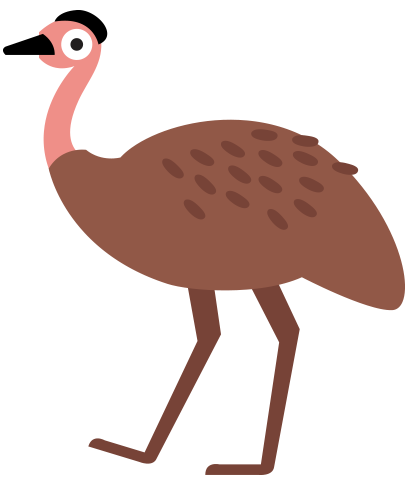
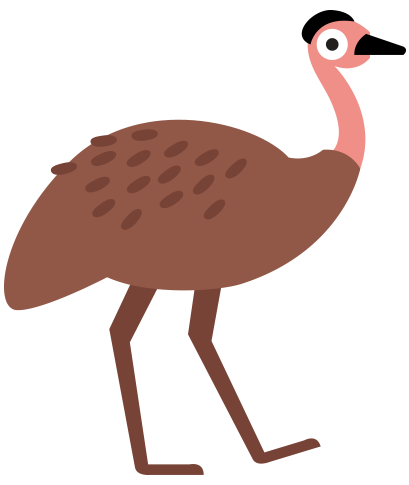
I added a flipped Emu image and made a Frenzy text, I also fixed the middle bound
I just need to fix the speed change at the beginning of the game.

Changed region(s): [[0.0, 0.0, 0.9976, 0.9897], [0.6455, 0.433, 0.7042, 0.4948], [0.2934, 0.433, 0.3521, 0.4948]]

diff --git a/src/GamePanel.java b/src/GamePanel.java
@@ -8,6 +8,7 @@ import java.awt.event.KeyListener;
 import java.awt.image.BufferedImage;
 import java.io.IOException;
 import java.util.ArrayList;
+import java.util.Random;
 
 import javax.imageio.ImageIO;
 import javax.swing.JLabel;
@@ -23,20 +24,23 @@ public class GamePanel extends JPanel implements KeyListener, ActionListener {
 	static int currentSTATE = MENU_STATE;
 	Font titleFont = new Font("LucidaSansTypewriter", Font.BOLD, 48);
 	Font description = new Font("Dialog", Font.PLAIN, 30);
-	public static BufferedImage Emu;
+	Font frenzy = new Font("Dialog", Font.BOLD, 60);
+	public static BufferedImage EmuLeft;
+	public static BufferedImage EmuRight;
 	public static BufferedImage Crosshair;
 	public static BufferedImage explosion;
 	public static BufferedImage cloud;
 	public static BufferedImage Bush;
-	Timer SplatTimer=new Timer(125,om);
-
+	Timer SplatTimer = new Timer(125, om);
+   Random rc = new Random();
 	public GamePanel() {
 		try {
-			Emu = ImageIO.read(this.getClass().getResourceAsStream("Emu-Large.png"));
+			EmuRight = ImageIO.read(this.getClass().getResourceAsStream("Emu-largeCopy.png"));
+			EmuLeft = ImageIO.read(this.getClass().getResourceAsStream("Emu-large.png"));
 			Crosshair = ImageIO.read(this.getClass().getResourceAsStream("Crosshair.png"));
-		  	explosion = ImageIO.read(this.getClass().getResourceAsStream("explosion.png"));
-		  	cloud=ImageIO.read(this.getClass().getResourceAsStream("Cloud.png"));
-		  	Bush=ImageIO.read(this.getClass().getResourceAsStream("Bush.png"));
+			explosion = ImageIO.read(this.getClass().getResourceAsStream("explosion.png"));
+			cloud = ImageIO.read(this.getClass().getResourceAsStream("Cloud.png"));
+			Bush = ImageIO.read(this.getClass().getResourceAsStream("Bush.png"));
 		} catch (IOException e) {
 			e.printStackTrace();
 		}
@@ -87,33 +91,39 @@ public class GamePanel extends JPanel implements KeyListener, ActionListener {
 
 		g.setColor(Color.CYAN);
 		g.fillRect(0, 0, EmuHunt.width, EmuHunt.height);
-		
+
 		g.setColor(new Color(40, 90, 40));
 		g.fillRect(0, 700, 1000, 300);
 		g.setColor(Color.white);
-		//g.fillOval(120, 100, 150, 100);
-		//g.fillOval(900, 50, 150, 100);
-		//g.fillOval(450, 200, 150, 100);
+		// g.fillOval(120, 100, 150, 100);
+		// g.fillOval(900, 50, 150, 100);
+		// g.fillOval(450, 200, 150, 100);
 		g.setColor(new Color(40, 100, 40));
-		//g.fillOval(-10, 600, 120, 130);
-		//g.fillOval(900, 600, 120, 130);
+		// g.fillOval(-10, 600, 120, 130);
+		// g.fillOval(900, 600, 120, 130);
 		g.setColor(Color.RED);
-		
 
-		g.drawString("Score:" + ObjectManager.score + " ", 500, 50);
 		g.setColor(Color.BLACK);
-		g.drawImage(cloud, 115,100,170,120, null);
-		g.drawImage(cloud, 900,50,170,120, null);
-		g.drawImage(cloud, 450,200,170,120, null);
+		g.drawImage(cloud, 115, 100, 170, 120, null);
+		g.drawImage(cloud, 900, 50, 170, 120, null);
+		g.drawImage(cloud, 450, 200, 170, 120, null);
 		g.drawImage(Bush, -30, 600, 220, 200, null);
-		g.drawImage(Bush, 840,600,220,200, null);
-		
+		g.drawImage(Bush, 840, 600, 220, 200, null);
+
 		g.drawImage(Crosshair, Target.targetX - 19, Target.targetY - 19, 40, 40, null);
 		g.drawString("Bullets: " + om.bullets, 900, 50);
 		g.drawOval(Target.targetX - 15, Target.targetY - 14, Target.targetWidth, Target.targetHeight);
 		g.drawRect(Target.targetX - 1, Target.targetY - 1, 3, 3);
 		om.draw(g);
+		g.drawString("Score:" + ObjectManager.score + " ", 500, 50);
+		
+		if (om.score > 35 && om.score < 48) {
+			Color flash = new Color(rc.nextInt(255),rc.nextInt(255),rc.nextInt(255));
+			g.setColor(flash);
+			g.setFont(frenzy);
+			g.drawString("FRENZY", 400, 150);
 
+		}
 	}
 
 	void drawEndState(Graphics g) {
@@ -144,7 +154,7 @@ public class GamePanel extends JPanel implements KeyListener, ActionListener {
 	}
 
 	void updateEndState() {
-		ObjectManager.bullets = 60;
+		ObjectManager.bullets = 40;
 
 	}
 

diff --git a/src/Enemy.java b/src/Enemy.java
@@ -4,21 +4,23 @@ import java.awt.image.BufferedImage;
 import java.util.Random;
 
 public class Enemy extends GameObject {
-	 int speed;
+	int speed;
 	int movementType;
 	int arcMovement = 0;
 	int straightMovement = 1;
 	int wiggleMovement = 2;
-	static int rand = new Random().nextInt(2) +2;
-	
-public BufferedImage Emu=GamePanel.Emu;
-public BufferedImage Crosshair=GamePanel.Crosshair;
-public BufferedImage explosion = GamePanel.explosion;
+	static int rand = new Random().nextInt(2) + 2;
+
+	public BufferedImage EmuLeft = GamePanel.EmuLeft;
+	public BufferedImage EmuRight = GamePanel.EmuRight;
+	public BufferedImage Crosshair = GamePanel.Crosshair;
+	public BufferedImage explosion = GamePanel.explosion;
+
 	public Enemy(int x, int y, int width, int height, int movementType) {
 		super(x, y, width, height);
 		this.movementType = movementType;
 		speed = rand;
-		//speed=1;
+		// speed=1;
 		this.y = new Random().nextInt(650);
 		this.x = new Random().nextInt(2) * 1000;
 		if (this.x > 500) {
@@ -28,13 +30,18 @@ public BufferedImage explosion = GamePanel.explosion;
 	}
 
 	public void draw(Graphics g) {
-		 g.setColor(Color.black);
-		 //g.drawRect(collisionBox.x, collisionBox.y, collisionBox.width, collisionBox.height);
-		
-		g.drawImage(Emu, x, y,width,height, null);
-		
-		//System.out.println("enemy drawn");
+		g.setColor(Color.black);
+		// g.drawRect(collisionBox.x, collisionBox.y, collisionBox.width,
+		// collisionBox.height);
+		if (speed>0) {
+			g.drawImage(EmuLeft, x, y, width, height, null);
+		}
+		else {
+			g.drawImage(EmuRight, x, y, width, height, null);
+		}
+		// System.out.println("enemy drawn");
 	}
+
 	public void update() {
 		super.update();
 		if (x > 490 && x < 500) {
@@ -42,7 +49,7 @@ public BufferedImage explosion = GamePanel.explosion;
 			y += 6;
 		}
 		x += speed;
-	//	System.out.println("1234");
+		// System.out.println("1234");
 	}
 
 	int getX() {

diff --git a/src/GameObject.java b/src/GameObject.java
@@ -24,33 +24,35 @@ public class GameObject {
 		frameCount++;
 		collisionBox.setBounds(x, y, width, height);
 		if (ObjectManager.score >= 12 && ObjectManager.score < 18) {
-			Enemy.rand = new Random().nextInt(3) + 4;
+			Enemy.rand = new Random().nextInt(3) + 2;
 			ObjectManager.enemySpawnTime = 2300;
 			
-		//	ObjectManager.score = 49;
+		//	ObjectManager.score = 36;
 		}
 		if (ObjectManager.score >= 18 && ObjectManager.score < 30) {
-			Enemy.rand = new Random().nextInt(6) + 3;
+			Enemy.rand = new Random().nextInt(3) + 3;
 			ObjectManager.enemySpawnTime = 2000;
 		}
 		if (ObjectManager.score >= 30 && ObjectManager.score < 35) {
-			Enemy.rand = new Random().nextInt(7) + 4;
+			Enemy.rand = new Random().nextInt(4) + 4;
 			ObjectManager.enemySpawnTime = 1000;
 		}
 		if (ObjectManager.score >= 35 && ObjectManager.score < 48) {
-			Enemy.rand = new Random().nextInt(4) + 3;
+			Enemy.rand = new Random().nextInt(4) + 5;
 			ObjectManager.enemySpawnTime = 30;
+			
 		}
 		if (ObjectManager.score >= 48 && ObjectManager.score < 50) {
-			Enemy.rand = new Random().nextInt(4) + 3;
+			Enemy.rand = new Random().nextInt(5) + 6;
 			ObjectManager.enemySpawnTime = 2500;
 		//	System.out.println("nack");
 
 		}
+		
 
 		if (ObjectManager.score >= 50) {
 			if (frameCount % 2000 == 0) {
-				Enemy.rand++;
+				Enemy.rand+=10;
 			}
 			ObjectManager.enemySpawnTime+=2;
 			if (ObjectManager.enemySpawnTime >= 300 && frameCount % 90 == 0) {

diff --git a/src/ObjectManager.java b/src/ObjectManager.java
@@ -17,7 +17,7 @@ public class ObjectManager extends Target implements KeyListener, ActionListener
 	boolean isAlive = true;
 	static ArrayList<Enemy> enemies = new ArrayList<Enemy>();
 	ArrayList<Explosion> explosions = new ArrayList<Explosion>();
-	static int bullets = 60;
+	static int bullets = 40;
 
 	public ObjectManager() {
 		hitbox = new Rectangle(20, 20, 20, 20);
@@ -91,7 +91,7 @@ public class ObjectManager extends Target implements KeyListener, ActionListener
 			if (Target.hitbox.intersects(enemies.get(i).collisionBox)) {
 				enemies.get(i).isAlive = false;
 			}
-			if (bullets == 0) {
+			if (bullets <= -1) {
 				GamePanel.currentSTATE = GamePanel.END_STATE;
 			}
 

diff --git a/src/Explosion.java b/src/Explosion.java
@@ -1,7 +1,7 @@
 import java.awt.Graphics;
 
 public class Explosion extends GameObject {
-	float duration = 1000;
+	float duration = 10000;
 	float time;
 	float endTime;
 
